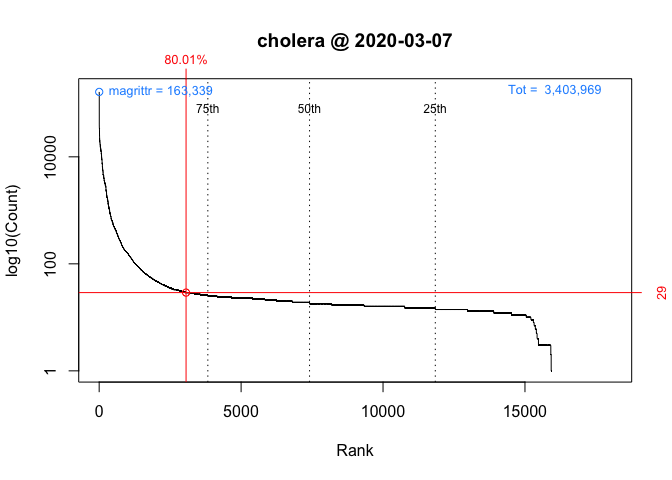
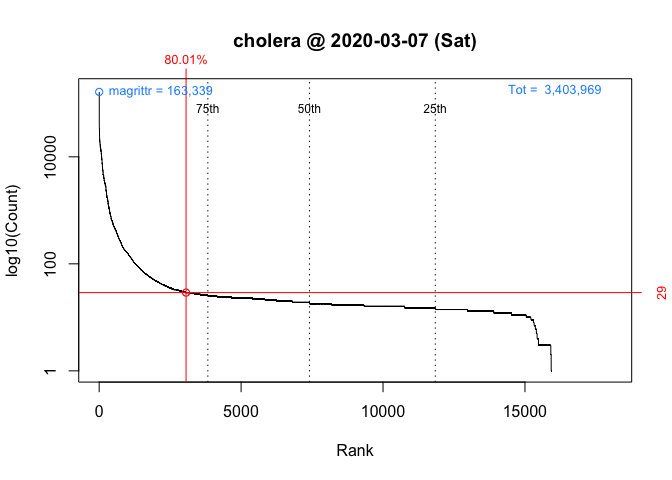
add day to packageRank() plot + copyedit

Changed region(s): [[0.3438, 0.0625, 0.7188, 0.125]]

diff --git a/content/post/2020-03-03-packageRank/index.md b/content/post/2020-03-03-packageRank/index.md
@@ -1,6 +1,6 @@
 ---
 slug: packageRank-intro
-title: "'packageRank': Introduction and Caveat"
+title: "Counting and Visualizing CRAN Downloads with 'packageRank' (w/ Caveats!)"
 authors:
   - lindbrook
 date: 2020-03-01
@@ -14,13 +14,11 @@ output:
 
 > This post was contributed by [Peter Li](https://www.github.com/lindbrook/). Thank you, Peter!
 
-[`'packageRank'`](https://cran.r-project.org/package=packageRank) is an R package that helps put package download counts into context. It does so via two functions, `cranDownloads()` and `packageRank()`.
+[`'packageRank'`](https://cran.r-project.org/package=packageRank) is an R package that helps put package download counts into context. It does so via two functions, `cranDownloads()` and `packageRank()`. `cranDownloads()` extends [`cranlogs::cran_downloads()`](http://r-hub.github.io/cranlogs/) package by adding a `plot()` method and a more user-friendly interface to the task of counting package downloads. `packageRank()` uses rank percentiles, a nonparametric statistic that tells you the percentage of packages with fewer downloads, to help you see how your package is doing compared to all other packages on [CRAN](https://cran.r-project.org/).
 
-`cranDownloads()` extends [`cranlogs::cran_downloads()`](http://r-hub.github.io/cranlogs/) package by adding a `plot()` method and a more user-friendly interface to the task of counting package downloads. `packageRank()` uses rank percentiles, a nonparametric statistic that tells you the percentage of packages with fewer downloads, to help you see how your package is doing compared to all other packages on [CRAN](https://cran.r-project.org/).
+In this post, I'll do two things. First, I'll give an overview of the package's core features and functions - a more detailed description of the package can be found in the README on [GitHub](https://www.github.com/lindbrook/packageRank). Second, I'll discuss a systematic positive bias that inflates download counts.
 
-In this post, I'll do two things. First, I'll give an overview of the package's core features and functions - a more detailed description of the package can be found on [GitHub](https://www.github.com/lindbrook/packageRank). Second, I'll discuss the systematic positive bias that affects download counts.
-
-Note that in this post, I'll refer to _active_ and _inactive_ packages: the former are packages that are still being developed and appear in the [CRAN repository](https://cran.r-project.org/web/packages/index.html); the latter are "retired" packages that are stored in the [Archive](https://cran.r-project.org/src/contrib/Archive) along with past versions of active packages.
+Note that in this post, I'll refer to _active_ and _inactive_ packages: the former are packages that are still being developed and appear in the [CRAN repository](https://cran.r-project.org/web/packages/index.html); the latter are "retired" packages that are stored in the [CRAN Archive](https://cran.r-project.org/src/contrib/Archive) along with past versions of active packages.
 
 ******
 
@@ -35,7 +33,7 @@ cranlogs::cran_downloads(packages = "HistData")
 
 ```
         date count  package
-1 2020-04-17   378 HistData
+1 2020-04-21   349 HistData
 ```
 
 <br/>
@@ -47,7 +45,7 @@ cranDownloads(packages = "HistData")
 
 ```
         date count  package
-1 2020-04-17   378 HistData
+1 2020-04-21   349 HistData
 ```
 
 <br/>
@@ -73,7 +71,7 @@ cranDownloads(packages = "ggplot2")
 
 ```
         date count package
-1 2020-04-17 57652 ggplot2
+1 2020-04-21 63808 ggplot2
 ```
 
 <br/>
@@ -96,14 +94,14 @@ cranDownloads(packages = "VR")
 
 ```
         date count package
-1 2020-04-17     0      VR
+1 2020-04-21     0      VR
 ```
 
 <br/>
 
 ## additional date formats
 
-With `cranlogs::cran_downloads()`, you can specify a time frame using the `from` and `to` arguments. The downside is that dates must be formatted as "yyyy-mm-dd". To reduce typing, `cranDownloads()` allows you to also use "yyyy-mm" or "yyyy" (yyyy works too!).
+With `cranlogs::cran_downloads()`, you specify a time frame using the `from` and `to` arguments. The downside of this is that dates must use the "yyyy-mm-dd" format. For convenience's sake and to reduce typing, `cranDownloads()` also allows you to use "yyyy-mm" or "yyyy" (yyyy also works).
 
 ### "yyyy-mm"
 
@@ -115,13 +113,16 @@ cranlogs::cran_downloads(packages = "HistData", from = "2020-02-01",
   to = "2020-02-29")
 ```
 
+<br/>
+
 With `cranDownloads()`, you can just specify the year and month:
 
 
 ```r
-# 29 observations!
 cranDownloads(packages = "HistData", from = "2020-02", to = "2020-02")
 ```
+
+<br/>
 
 ### "yyyy"
 
@@ -189,7 +190,7 @@ plot(cranDownloads(packages = c("ggplot2", "data.table", "Rcpp"),
   from = "2020"), multi.plot = TRUE)
 ```
 
-See the [documentation](https://www.github.com/lindbrook/packageRank/) for `plot.cranDownloads()` for more plotting options.
+See the documentation for `plot.cranDownloads()` for more plotting options ([also on GitHub](https://www.github.com/lindbrook/packageRank/)).
 
 ******
 
@@ -208,7 +209,7 @@ plot(cranDownloads(packages = "cholera", from = "2020-03-01",
 
 <br/>
 
-Do the peaks on Wednesday and Saturday represent surges of interest in the package or surges of traffic to [CRAN](https://cran.r-project.org/)? To put it differently, how can we know if a given download count is typical or unusual?
+Do Wednesday and Saturday reflect surges of interest in the package or surges of traffic to [CRAN](https://cran.r-project.org/)? To put it differently, how can we know if a given download count is typical or unusual?
 
 One way to answer these questions is to locate your package in the frequency distribution of download counts. Below are the distributions for Wednesday and Saturday with the location of [`'cholera'`](https://cran.r-project.org/package=cholera) highlighted:
 
@@ -219,9 +220,9 @@ One way to answer these questions is to locate your package in the frequency dis
 {{<figure src="skew_sat-1.png" title="Figure 5 Frequency Distribution of Package Downloads for Saturday, March 7, 2020">}}
 <br/>
 
-As you can see, the frequency distribution of package downloads typically has a heavily skewed, exponential shape. On the Wednesday, the most "popular" package had 177,745 downloads while the least "popular" package(s) had just one. This is why the left side of the distribution, where packages with fewer downloads are located, _looks_ like a vertical line.To help see what's going on, we can take the log of download counts (x-axis) and redraw the graph.
+As you can see, the frequency distribution of package downloads typically has a heavily skewed, exponential shape. On the Wednesday, the most "popular" package had 177,745 downloads while the least "popular" package(s) had just one. This is why the left side of the distribution, where packages with fewer downloads are located, _looks_ like a vertical line.
 
-In these plots, the position of each vertical segment along the x-axis represents its download count and the height of each segments represents the number of packages with that download count:
+To see what's going on, I take the log of download counts (x-axis) and redraw the graph. In these plots, the location of a vertical segment along the x-axis represents a download count and the height of a vertical segment represents the frequency of a download count:
 
 
 
@@ -243,7 +244,9 @@ plot(packageDistribution(package = "cholera", date = "2020-03-07"))
 
 While these plots give us a better picture of where [`'cholera'`](https://cran.r-project.org/package=cholera) is located, comparisons between Wednesday and Saturday are impressionistic at best: all we can confidently say is that the download counts for both days were greater than the mode.
 
-To facilitate interpretation and comparison, I use the _rank percentile_ of download counts in place of nominal download counts. This nonparametric statistic tells you the percentage of packages with fewer downloads. In other words, it tells you the location of your package relative to the locations of all other packages. More importantly, by rescaling download counts to lie on the bounded interval between 0 and 100, rank percentiles make it easier to compare packages within and across distributions, and to compare Wednesday ("2020-03-04") to Saturday ("2020-03-07"):
+To facilitate interpretation and comparison, I use the _rank percentile_ of download counts in place of nominal download counts. This nonparametric statistic tells you the percentage of packages with fewer downloads. In other words, it gives you the location of your package relative to the locations of all other packages. More importantly, by rescaling download counts to lie on the bounded interval between 0 and 100, rank percentiles make it easier to compare packages within and across distributions.
+
+For example, we can compare Wednesday ("2020-03-04") to Saturday ("2020-03-07"):
 
 
 ```r
@@ -254,6 +257,7 @@ packageRank(package = "cholera", date = "2020-03-04", size.filter = FALSE)
         date packages downloads            rank percentile
 1 2020-03-04  cholera        38 5,556 of 18,038       67.9
 ```
+On Wednesday, we can see that [`'cholera'`](https://cran.r-project.org/package=cholera) had 38 downloads, came in 5,556th place out of 18,038 unique packages downloaded, and earned a spot in the 68th percentile.
 
 <br/>
 
@@ -266,14 +270,15 @@ packageRank(package = "cholera", date = "2020-03-07", size.filter = FALSE)
         date packages downloads            rank percentile
 1 2020-03-07  cholera        29 3,061 of 15,950         80
 ```
+On Saturday, we can see that [`'cholera'`](https://cran.r-project.org/package=cholera) had 29 downloads, came in 3,061st place out of 15,950 unique packages downloaded, earned a spot in the 80th percentile.
 
-On Wednesday, we can see that [`'cholera'`](https://cran.r-project.org/package=cholera) had 38 downloads, came in 5,556th place out of 18,038 unique packages downloaded, and earned a spot in the 68th percentile. On Saturday, we can see that [`'cholera'`](https://cran.r-project.org/package=cholera) had 29 downloads, came in 3,061st place out of 15,950 unique packages downloaded, earned a spot in the 80th percentile. So contrary to what the nominal counts tell us, one could argue that the interest in [`'cholera'`](https://cran.r-project.org/package=cholera) was actually greater on Saturday than on Wednesday.
+So contrary to what the nominal counts tell us, one could say that the interest in [`'cholera'`](https://cran.r-project.org/package=cholera) was actually greater on Saturday than on Wednesday.
 
 <br/>
 
 ## computing rank percentiles
 
-To compute the rank percentile, I do the following. For each package I tabulate the number of downloads and then compute the percentage of packages with fewer downloads. Here are the details using [`'cholera'`](https://cran.r-project.org/package=cholera) from Wednesday as an example:
+To compute rank percentiles, I do the following. For each package, I tabulate the number of downloads and then compute the percentage of packages with fewer downloads. Here are the details using [`'cholera'`](https://cran.r-project.org/package=cholera) from Wednesday as an example:
 
 
 ```r
@@ -289,9 +294,12 @@ round(100 * mean(downloads < downloads["cholera"]), 1)
 [1] 67.9
 ```
 
-```r
-# OR
+<br/>
 
+To put it differently:
+
+
+```r
 (pkgs.with.fewer.downloads <- sum(downloads < downloads["cholera"]))
 ```
 
@@ -345,34 +353,44 @@ These graphs, customized to be on the same scale, plot the _rank order_ of packa
 
 <br/>
 
-## computational and analytic limitations
+## limitations
 
-Unlike `cranlogs::cran_download()`, which benefits from server-side support (i.e., download counts are "pre-computed"), `packageRank()` needs to download the [logs](http://cran-logs.rstudio.com/) from RStudio and compute the rank percentiles of download counts. This imposes a performance penalty and a limit on analysis.
+There are (at least) three limitations to `packageRank()`.
 
-While the performance penalty is mitigated by caching downloaded log files using the [`'memoise'`](https://CRAN.R-project.org/package=memoise) package, the analytic limitation is harder to overcome. Anything beyond a one-day cross-sectional comparison (e.g., rank percentiles over time) is "expensive": you have to download all the needed log files, each of which can push 50 MB. If you want to compare ranks for a week, you have to download 7 log files. If you want to compare ranks for a month, you have to download 30 odd log files.
+### computational
 
-As a proof-of-concept, the plot below compares nominal download counts with their rank percentiles for [`'cholera'`](https://cran.r-project.org/package=cholera) for the first week in March. Note that, to the chagrin of many, two independently scaled y-variables are plotted on the same graph (gray/black for counts on the left axis, red for rank percentiles on the right).
+The computational limitation stems from the fact that, unlike `cranlogs::cran_download()`, which benefits from server-side support (i.e., download counts are "pre-computed"), `packageRank()` must download [logs](http://cran-logs.rstudio.com/) over the internet and compute the rank percentiles of download counts. This, however, is somewhat mitigated by caching downloaded log files using the [`'memoise'`](https://CRAN.R-project.org/package=memoise) package,
+
+### analytical
+
+The analytic limitation stems from the computational one. Anything beyond a one-day, cross-sectional comparison (e.g., rank percentiles over time) is "expensive". You need to download all the desired log files, each of which can push 50 MB. If you want to compare ranks for a week, you have to download 7 log files. If you want to compare ranks for a month, you have to download 30 odd log files. As a proof-of-concept of the potential of following this path, the plot below compares nominal download counts with their rank percentiles for [`'cholera'`](https://cran.r-project.org/package=cholera) for the first week in March. Note that, to the chagrin of some, two independently scaled y-variables are plotted on the same graph (gray/black for counts on the left axis, red for rank percentiles on the right).
 
 {{<figure src="counts_ranks-1.png" title="Figure 10 Comparison of Package Download Counts and Rank Percentiles">}}
 <br/>
 
-Note that while the correlation between counts and rank percentiles in _this_ example is high (r = 0.7), it is not necessarily representative.
+Note that while the correlation between counts and rank percentiles is high in this example (r = 0.7), it's not necessarily representative of the general relationship between counts and rank percentiles.
+
+### conceptual
+
+The conceptual limitation revolves around the apple and oranges question. I argued that one of the virtues of `packageRank()` is that rank percentiles allow you to locate your package's position relative to that of all other packages. However, one might wonder just how fair or meaningful it is to compare a package like [`'curl'`](https://cran.r-project.org/package=curl), which is an important infrastructure tool, to a package like [`'cholera'`](https://cran.r-project.org/package=cholera), which is an applied, niche application. While I believe that comparing fruit against fruit (packages against packages) can be interesting and insightful (e.g., the numerical and visual comparisons of Wednesday and Saturday), I do acknowledge the differences.
+
+In fact, this is one of tasks I had in mind for [`'packageRank'`](https://cran.r-project.org/package=packageRank). I wanted to create indices (e.g., Dow Jones, NASDAQ) that use download activity as a way to assess the state and health of R and its ecosystem(s). By that I mean I'd not only look at packages as a single collective entity but also as individual communities or components (i.e., the various CRAN Task Views, tidyverse, developers, end-users, etc.). To do the latter, my hope was that I'd segment or classify packages into separate groups, each with their own individual index. Anyway, it's still early days for all of this. This is by no means the final definitive statement on how to estimate interest in a package.
 
 ******
 
 # `inflationary bias of download counts`
 
-Dowanload counts are popular way for developers to signal a package's importance or quality, witness the badges on repositories that advertise those numbers. [`'cranlogs'`](https://cran.r-project.org/package=cranlogs), which is the foundation on which [`'cranlogs'`](https://cran.r-project.org/package=cranlogs) and [`'adjustedcranlogs'`](https://cran.r-project.org/package=adjustedcranlogs) were built, computes package downloads by counting the respective number of entries in [RStudio's download logs](http://cran-logs.rstudio.com/).
+Download counts are a popular way for developers to signal a package's importance or quality, witness the frequent use of badges on repositories to advertise those numbers. To get those numbers, [`'cranlogs'`](https://cran.r-project.org/package=cranlogs), which both [`'cranlogs'`](https://cran.r-project.org/package=cranlogs) and [`'adjustedcranlogs'`](https://cran.r-project.org/package=adjustedcranlogs) rely on, computes the number of entries in [RStudio's download logs](http://cran-logs.rstudio.com/) for a given package.
 
-Putting aside the possibility that these logs may not be representative of the interests of R users in general because they reflect traffic to the [0-Cloud Mirror](https://cloud.r-project.org), a virtual server that was formerly [RStudios' mirror](https:/cran.rstudio.com) and is currently the default mirror for the RStudio application, this method of computing package downloads would be perfectly sensible. Unfortunately, three objections can be made against the assumed equivalence of download counts and the number of log entries.
+Putting aside the possibility that the logs themselves may not be representative of of R users in general[^1], this strategy of would be perfectly sensible. Unfortunately, three objections can be made against the assumed equivalence of download counts and the number of log entries.
 
-The first is that download counts are inflated by package updates. Based on my reading of the source code and documentation, the removal of downloads due to package updates is what motivatates the [`'adjustedcranlogs'`](https://cran.r-project.org/package=adjustedcranlogs) package.[^1] However, why updates are deviant data that require removal, the "adjustment" is always downward or zero, is not obvious. Both package updates (existing users) and new installations (new users) seem equally interesting bits of data (and both reflect interest in a package). It might be a purely semantic issue, but for the reason above, I'm not entirely convinced that package updates are a source of "inflated" download counts.
+The first is that package updates inflate download counts. Based on my reading of the source code and documentation, the removal of downloads due to these updates is what motivates the [`'adjustedcranlogs'`](https://cran.r-project.org/package=adjustedcranlogs) package.[^2] However, why updates require removal, the "adjustment" is either downward or zero, is not obvious. Both package updates (existing users) and new installations (new users) would be of interest to developers (arguably both reflect interest in a package). For this reason above, I'm not entirely convinced that package updates are a source of "inflation" for download counts.
 
-The second is that download counts are inflated by package dependencies. The problem, in a nutshell, is that when a user chooses to download a package, they do not choose to download all the supporting, upstream packages (i.e., package dependencies) that are downloaded with the chosen package. To me, this is the elephant-in-the-room of download count inflation. This was the problem I was hoping to examine using [`'packageRank'`](https://cran.r-project.org/package=packageRank). What stopped me was the discovery of the third inflation problem, which is the focus of the rest of this post.
+The second is that package dependencies inflate download counts. The problem, in a nutshell, is that when a user chooses to download a package, they do not choose to download all the supporting, upstream packages (i.e., package dependencies) that are downloaded along with the chosen package. To me, this is the elephant-in-the-room of download count inflation (and one reason why `cranlogs::cran_top_downloads` returns the usual suspects). This was one of the problems I was hoping to tackle with [`'packageRank'`](https://cran.r-project.org/package=packageRank). What stopped me was the discovery of the next objection, which will be the focus of the rest of this post.
 
-The third is that download counts are inflated by types two "invalid" log entries: 1) downloads that are "too small" and 2) an overrepresentation of prior versions. Downloads that are "too small" are, apparently, a software artifact. The overrepresentation of prior versions is a consequence of efforts to mirror or download CRAN in its entirety. These mirroring efforts are what makes both "invalid" types of downloads so problematic: numerically, they undermine our strategy of computing package downloads by counting download logs entries; conceptually, they lead us to overestimate interest in a package.
+The third is that two types of "invalid" log entries inflate download counts: 1) downloads that are "too small" and 2) an overrepresentation of past versions. Downloads that are "too small" are, apparently, a software artifact. The overrepresentation of prior versions is a consequence what appears to be efforts to mirror or download CRAN in its entirety. These efforts makes both "invalid" types of downloads particularly problematic. Numerically, they undermine our strategy of computing package downloads by counting logs entries. Conceptually, they lead us to overestimate the amount of interest in a package.
 
-This inflationary effect of "invalid" log entries is variable. The greater a package's "true" popularity (i.e., the number of "real" downloads), the lower the bias. Essentially, the bias gets diluted. The greater the number of prior versions, the greater the bias. When all of CRAN is being downloaded, more versions means more package downloads. Fortunately, we can minimize the bias by filtering out "small" downloads, and by filtering out or discounting prior versions.
+The inflationary effect of "invalid" log entries is variable. The greater a package's "true" popularity (i.e., the number of "real" downloads), the lower the bias. Essentially, the bias gets diluted. The greater the number of prior versions, the greater the bias. When all of CRAN is being downloaded, more versions means more package downloads. Fortunately, we can minimize the bias by filtering out "small" downloads, and by filtering out or discounting prior versions.
 
 ## download logs
 
@@ -422,9 +440,9 @@ Entries 5 through 7 form the log above illustrate "small" downloads:
 
 Notice the differences in size: 4.1 MB, 35 kB and 539 B. On CRAN, the source and binary files of [`'cholera'`](https://cran.r-project.org/package=cholera) are [4.0 and 4.1 MB \*.tar.gz files](https://cran.r-project.org/src/contrib/Archive/cholera/). With "small" downloads, I'd argue that we end up over-counting the number of actual downloads.
 
-While I'm unsure about the kB-sized entry (they seem to increasing in frequency so your insights are welcome!), my current understanding is that ~500 B downloads are [HTTP HEAD requests from lftp](https://github.com/r-hub/cranlogs/issues/45). The earliest example I've found goes back to "2012-10-17" (RStudio's download logs only go back to "2012-10-01".). I've also noticed that, unlike the above example, "small" downloads aren't always paired with "complete" downloads.
+While I'm unsure about the kB-sized entry (they seem to increasing in frequency so insights are welcome!), my current understanding is that ~500 B downloads are [HTTP HEAD requests from lftp](https://github.com/r-hub/cranlogs/issues/45). The earliest example I've found goes back to "2012-10-17" (RStudio's download logs only go back to "2012-10-01".). I've also noticed that, unlike the above example, "small" downloads aren't always paired with "complete" downloads.
 
-To get a sense of their frequency, I look back to October 2019. In aggregate, ~500 B downloads account for approximately 2% of the total. While this seems modest (if 2.5 million downloads could be modest),[^2] I'd argue that there's actually something lurking underneath. A closer look reveals that the difference between the total and filtered (without ~500 B entries) counts is greatest on the five Wednesdays.
+To get a sense of their frequency, I look back to October 2019 and focus on ~500 B downloads. In aggregate, these downloads account for approximately 2% of the total. While this seems modest (if 2.5 million downloads could be modest),[^3] I'd argue that there's actually something lurking underneath. A closer look reveals that the difference between the total and filtered (without ~500 B entries) counts is greatest on the five Wednesdays.
 
 {{<figure src="counts_plot-1.png" title="Figure 11 Total Package Downloads from CRAN With and Without ~500 B Downloads: October 2019">}}
 
@@ -433,13 +451,13 @@ To see what's going on, I switch the unit of observation from download counts to
 
 {{<figure src="packages_plot-1.png" title="Figure 12 Total Number of Unique Packages Downloaded from CRAN With and Without ~500 B Downloads: October 2019">}}
 
-Doing so, we see that on Wednesdays (+3 additional days) the total number of unique packages downloaded tops 17,000. This is significant because it exceeds the 15,000+ active packages on CRAN (go [here](https://cran.r-project.org/web/packages/index.html) for the latest count). The only way to hit 17,000+ would be to include some, if not all, of the 2,000+ inactive packages. Based on this, I'd say that on those peak days virtually, if not literally, all CRAN packages (both active _and_ inactive) were downloaded.[^3]
+Doing so, we see that on Wednesdays (+3 additional days) the total number of unique packages downloaded tops 17,000. This is significant because it exceeds the 15,000+ active packages on CRAN (go [here](https://cran.r-project.org/web/packages/index.html) for the latest count). The only way to hit 17,000+ would be to include some, if not all, of the 2,000+ inactive packages. Based on this, I'd say that on those peak days virtually, if not literally, all CRAN packages (both active _and_ inactive) were downloaded.[^4]
 
 <br/>
 
 ## past versions
 
-This actually understates what's going on. It's not just that "all" packages are being downloaded but that all versions of all packages are being regularly and repeatedly download. It's these efforts, rather than downloads done for reasons of compatibility or research, that lead me to argue that there's an overrepresentation of prior versions.
+This actually understates what's going on. It's not just that "all" packages are being downloaded but that all versions of all packages are being regularly and repeatedly download. It's these efforts, rather than downloads done for reasons of compatibility, research, or reproducibility (including use of [Docker](https://www.docker.com)) that lead me to argue that there's an overrepresentation of prior versions.
 
 As an example, see the first eight entries for [`'cholera'`](https://cran.r-project.org/package=cholera) in the October 22, 2019 log:
 
@@ -460,7 +478,7 @@ packageLog(packages = "cholera", date = "2019-10-22")[1:8, ]
 8 2019-10-22 08:01:46 3766511 cholera   0.5.0      RU  15119
 ```
 
-These eight entries record the download of eight _different_ versions of [`'cholera'`](https://cran.r-project.org/package=cholera). A little digging with `packageRank::packageHistory()` reveals that eight observed versions represent all available version on that day:
+These eight entries record the download of eight _different_ versions of [`'cholera'`](https://cran.r-project.org/package=cholera). A little digging with `packageRank::packageHistory()` reveals that eight observed versions represent all the versions available on that day:
 
 
 ```r
@@ -481,7 +499,7 @@ packageHistory("cholera")
 
 Showing that "all" versions of all packages are being downloaded is not as easy as showing the effect of "small" downloads. For this post, I'll rely on a random sample of 100 active and 100 inactive packages.
 
-The graph below plots the percent of versions downloaded for each day in October 2019 (IDs 1-100 are _active_ packages; IDs 101-200 are _inactive_ packages). On the five Wednesdays (+ 3 additional days), there's a horizontal line at 100% that indicates that all versions of the packages in the sample were downloaded.[^4]
+The graph below plots the percent of versions downloaded for each day in October 2019 (IDs 1-100 are _active_ packages; IDs 101-200 are _inactive_ packages). On the five Wednesdays (+ 3 additional days), there's a horizontal line at 100% that indicates that all versions of the packages in the sample were downloaded.[^5]
 
 {{<figure src="versions_plot-1.png" title="Figure 13 Percent of Package-Versions Downloaded for 100 Active & 100 Inactive Packages: October 2019">}}
 
@@ -489,11 +507,13 @@ The graph below plots the percent of versions downloaded for each day in October
 
 ## solutions
 
-To minimize this bias, we could filter out "small" downloads and past versions. Filtering out 500 B downloads is simple and straightforward (`packageRank()` and `packageLog()` already include this functionality). My [understanding](https://github.com/r-hub/cranlogs/issues/45#issuecomment-553874788) is that there may be plans to do this in 'cranlogs' as well. Filtering out the other "small" downloads is a bit more involved because you'd need the size of a "valid" download. Filtering out previous versions is more complicated. You'd not only need to know the current version, you'd probably also want a way to discount rather than to simply exclude previous version(s). This is especially when a package update occurs.
+To minimize this bias, we could filter out "small" downloads and past versions. Filtering out 500 B downloads is simple and straightforward (`packageRank()` and `packageLog()` already include this functionality). My [understanding](https://github.com/r-hub/cranlogs/issues/45#issuecomment-553874788) is that there may be plans to do this in 'cranlogs' as well. Filtering out the other "small" downloads is a bit more involved because you'd need the size of a "valid" download. Filtering out previous versions is more complicated. You'd not only need to know the current version, you'd probably also want a way to discount rather than to simply exclude previous version(s). This is especially true when a package update occurs.
 
 # `significance`
 
-Should you be worried about this inflationary bias? If your goal is to estimate interest in your package rather than traffic to CRAN, I think the answer is yes. How much you should worry depends on the package you're interested in. The bias works in variable, unequal fashion. It is a function of a package's "popularity" (i.e, the number of "valid" downloads) and the number of prior versions. A package with more "real" downloads will be less affected than one with fewer "real" downloads because the bias gets diluted (typically, "real" interest is greater than "artificial" interest). A package with more versions will be more greatly affected because, especially if CRAN in its entirety is being downloaded, a package with more versions will record more downloads than one with fewer versions.
+Should you be worried about this inflationary bias? In general, I think the answer is yes. For most users of these data, the goal is to estimate interest in R packages, not to estimate traffic to CRAN. To that end, "cleaner" data, which adjusts download counts to exclude "invalid" log entries should be welcome.
+
+That said, how much you should worry depends on the package you're interested in. The bias works in variable, unequal fashion. It's a function of a package's "popularity" (i.e, the number of "valid" downloads) and the number of prior versions. A package with more "real" downloads will be less affected than one with fewer "real" downloads because the bias gets diluted (typically, "real" interest is greater than "artificial" interest). A package with more versions will be more greatly affected because, if CRAN in its entirety is being downloaded, a package with more versions will record more downloads than one with fewer versions.
 
 <br/>
 
@@ -540,7 +560,7 @@ To illustrate the joint effect of both ~500 B downloads and previous versions, I
 
 Even though the bias is pretty mechanical and deterministic, to show that examples above are not idiosyncratic, I conclude with a back-of-the-envelope estimate of the general effect of popularity (unfiltered downloads) and version count (total number of versions) on total bias (the percent change in download counts after filtering out ~500 B download and prior versions).
 
-I reuse the sample of 200 active and inactive packages as the data and fit a linear model using the base 10 logarithm of all the three variables. The hope is that I at least get the signs right and that the bias is negatively related to popularity and positively related to the number of versions.
+I reuse the sample of 200 active and inactive packages as the data and fit a linear model using the base 10 logarithm of all the three variables. The hope is that I at least get the signs right and that the bias is negatively related to popularity and positively related to the number of versions:
 
 
 
@@ -575,9 +595,11 @@ F-statistic:  1435 on 3 and 195 DF,  p-value: < 2.2e-16
 
 This post introduces some of the functions and features of [`'packageRank'`](https://cran.r-project.org/package=packageRank). The aim of the package is to put package download counts into context using visualization and rank percentiles. The post also describes a systematic, positive bias that affects download counts and offers some ideas about how to minimize its effect.
 
-The package is a work-in-progress. Suggestions, feature requests and problems can be submitted to the package's [GitHub repository](https://www.github.com/lindbrook/packageRank/issues/). Insights about "small" downloads would be particularly welcome.
+The package is a work-in-progress. Suggestions, feature requests and problems can be submitted to the package's GitHub [issues](https://www.github.com/lindbrook/packageRank/issues/). Insights about "small" downloads would be particularly welcome.
 
 I conclude with two final bits of data. On February 29, 2020 (a leap day and a Sunday), there was a noticeable decline in traffic to CRAN. Barring some technical issue with [RStudio's logs](http://cran-logs.rstudio.com/), there wasn't anything in the real world that might explain the drop. In the R world however, the day was notable for the release of the source code for R version 3.6.3.
+
+docker, aws
 
 
 ```r
@@ -601,7 +623,8 @@ plot(cranDownloads("R", from = "2020-02-25", to = "2020-03-04"),
 
 I've noticed that website maintenance (renaming files and folders, etc.) on CRAN sometimes coincides with software updates. So my working hypothesis, which I've yet to explore, is that the scripts used to do automated downloading may have been "broken" by changes on CRAN. If so, this might actually be a better benchmark estimate of the "real" level of interest in R and its packages.
 
-[^1]: This is an interesting and challenging data problem. To my knowledge, distinguishing updates from new downloads by looking at log entries is not easy. To do so, [`'adjustedcranlogs'`](https://cran.r-project.org/package=adjustedcranlogs) removes the "estimated CRAN-wide automated downloads for that day". Specifically, it estimates the number of package updates for an _individual_ package based on an estimate derived from the _population_ of packages (i.e., it makes an ecological inference). The population level estimate, while in the ballpark, is a bit arbitrary: it uses the "typical" minimal number of downloads, computed from the 0.05 quantile of a sample of packages.
-[^2]: The frequency of ~500 B downloads is such that I wonder whether `lftp` or something similar is/was part of the R and/or RStudio. That said, I've found that IP addresses with a "US" top level domain code account for 72% of ~500 B downloads but only 46% of all downloads. For details, see `head(packageRank::blog.data$ccode.ct, 5)`: "filtered" records download counts without ~500 B entries; "delta" is the arithmetic difference between "unfiltered" and "filtered".
-[^3]: The slight upward trend in the peaks probably reflects the addition of new packages during the month.
-[^4]: On 22 October 2019, there were two exceptions among inactive packages, 'UScensus2000blkgrp' and 'msDilution', which had zero downloads.
+[^1]: The logs reflect traffic to the [0-Cloud Mirror](https://cloud.r-project.org), a virtual server that was formerly [RStudios' mirror](https:/cran.rstudio.com) and that is currently the default mirror for the RStudio application.
+[^2]: This is an interesting and challenging data problem. To my knowledge, distinguishing updates from new downloads by looking at log entries is not easy. To do so, [`'adjustedcranlogs'`](https://cran.r-project.org/package=adjustedcranlogs) removes the "estimated CRAN-wide automated downloads for that day". Specifically, it estimates the number of package updates for an _individual_ package based on an estimate derived from the _population_ of packages (i.e., it makes an ecological inference). The population level estimate, while in the ballpark, is a bit arbitrary: it uses the "typical" minimal number of downloads, computed from the 0.05 quantile of a sample of packages.
+[^3]: The frequency of ~500 B downloads is such that I wonder whether `lftp` or something similar is/was part of R, RStudio, or services like [AWS](https://aws.amazon.com). Interestingly, while IP addresses with a nominal "US" top level domain country code account for 46% of all downloads in October 2019, which is surprising in its own right (N/A was second with 8%, "NL" - The Netherlands - was third with 6%), the "US" domain accounted for 72% of ~500 B downloads. For details, see `head(packageRank::blog.data$ccode.ct, 10)`: "filtered" records download counts without ~500 B entries; "delta" is the arithmetic difference between "unfiltered" and "filtered".
+[^4]: The slight upward trend in the peaks probably reflects the addition of new packages during the month.
+[^5]: On 22 October 2019, there were two exceptions among inactive packages, 'UScensus2000blkgrp' and 'msDilution', which had zero downloads.
